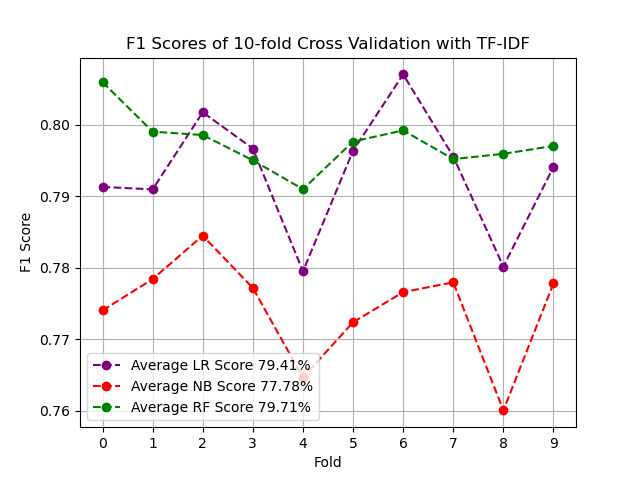
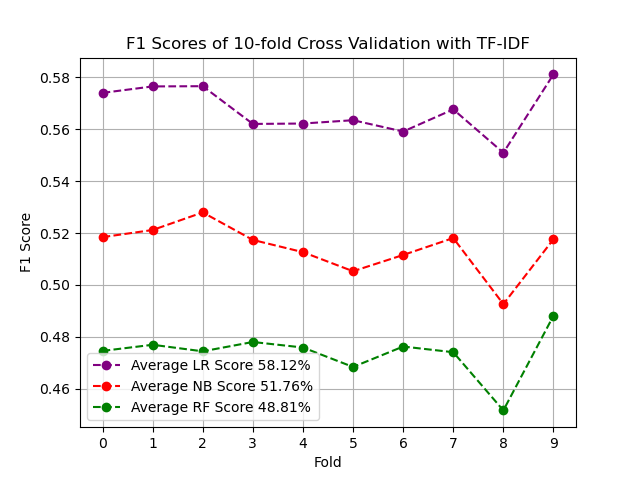
att

diff --git a/funcs.py b/funcs.py
@@ -11,10 +11,14 @@ from sklearn.linear_model import LogisticRegression
 from sklearn.naive_bayes import MultinomialNB
 from sklearn.ensemble import RandomForestClassifier
 from rake_nltk import Rake
+from PIL import Image
+import numpy as np
+
 # import RAKE
 from sklearn.feature_extraction.text import CountVectorizer
 from nltk.sentiment.vader import SentimentIntensityAnalyzer
 # nltk.download('vader_lexicon')
+# from wordcloud import WordCloud, STOPWORDS
 
 
 import matplotlib.pyplot as plt
@@ -46,8 +50,10 @@ def clean_text(text):
 
 def load_data():
     
+    train_data = ''
     data = pd.read_csv('train.csv')
-    train_data = data['selected_text'].apply(lambda x: clean_text(x))
+    print(data.head(10))
+    # train_data = data['selected_text'].apply(lambda x: clean_text(x))
     test_data = data['text'].apply(lambda x: clean_text(x))
     target = data['sentiment']
     return train_data, test_data, target
@@ -55,12 +61,7 @@ def load_data():
 ######################################################################################################
 
 def run_tfidf(train_data, test_data, Y):
-
-    kfolds = 10
-    f1scores_clr = []
-    f1scores_cmnb = []
-    f1scores_crf = []
-
+    
     """
     O primeiro passo é dividir o conjunto de dados em conjuntos de treinamento e teste, usando a função "train_test_split" da biblioteca "sklearn". 
     O parâmetro "test_size" define a proporção do conjunto de teste em relação ao conjunto de dados total e "random_state" é usado para controlar a 
@@ -84,11 +85,15 @@ def run_tfidf(train_data, test_data, Y):
     qualidade das previsões usando a métrica F1-score.
     """
 
+    kfolds = 10
+    f1scores_clr = []
+    f1scores_cmnb = []
+    f1scores_crf = []
 
     # Usando TF-IDF
     for i in range(kfolds):
+        X_train, X_test, y_train, y_test = train_test_split(test_data, Y, test_size=0.2, random_state=i)
         # X_train, _, y_train, _ = train_test_split(train_data, Y, test_size=0.2, random_state=i)
-        X_train, X_test, y_train, y_test = train_test_split(train_data, Y, test_size=0.2, random_state=i)
         # _, X_test, _, y_test = train_test_split(test_data, Y, test_size=0.2, random_state=i)
         tfidf_vectorizer = TfidfVectorizer()
         X_train_tfidf = tfidf_vectorizer.fit_transform(X_train)
@@ -133,7 +138,7 @@ def run_tfidf(train_data, test_data, Y):
     # for i, j in zip(range(kfolds), f1scores_clr):
     #     plt.annotate(f'{j * 100:.2f}%', xy=(i,j), xytext =(0.1 * offset, -offset * 0.5),  
     #         textcoords ='offset points',ha='center', va='bottom')
-    plt.savefig('tf-idf.png')
+    plt.savefig('tf-idf_3.png')
 
     plt.show()
 
@@ -149,11 +154,7 @@ def rake_tokenizer(text):
 
 def run_rake(train_data, test_data, Y):
 
-    kfolds = 10
-
-    f1scores_clr = []
-    f1scores_cmnb = []
-    f1scores_crf = []
+  
     """
     A função "rake_tokenizer" utiliza a biblioteca RAKE para extrair as frases-chave de um texto. 
     RAKE é uma técnica de extração de palavras-chave que considera a frequência das palavras e a coocorrência entre elas para identificar as frases mais importantes de um texto. 
@@ -174,8 +175,16 @@ def run_rake(train_data, test_data, Y):
      É importante notar que esse código é apenas um exemplo e que outras técnicas de vetorização e modelos de classificação podem ser utilizados dependendo do problema em questão.
     """
 
+    kfolds = 10
+    f1scores_clr = []
+    f1scores_cmnb = []
+    f1scores_crf = []
+
     for i in range(kfolds):
-        X_train, X_test, y_train, y_test = train_test_split(train_data, Y, test_size=0.2, random_state=i)
+        # X_train, _, y_train, _ = train_test_split(train_data, Y, test_size=0.2, random_state=i)
+        # _, X_test, _, y_test = train_test_split(test_data, Y, test_size=0.2, random_state=i)
+        X_train, X_test, y_train, y_test = train_test_split(test_data, Y, test_size=0.2, random_state=i)
+
 
         # Vectorize the text data using RAKE
         # rake = Rake()
@@ -226,7 +235,7 @@ def run_rake(train_data, test_data, Y):
     plt.xticks(range(kfolds))
     # plt.axhline(y=mean_f1score, color='r', linestyle='-', label=f'Average F1 Score {mean_f1score* 100:.2f} %')
     plt.legend()
-    plt.savefig('rake.png')
+    plt.savefig('rake_2.png')
 
     plt.show()
 
@@ -237,7 +246,8 @@ def sentiment_score():
     sentiments = SentimentIntensityAnalyzer()
 
     data = pd.read_csv('train.csv')
-    data['text'] = data['selected_text'].apply(lambda x: clean_text(x))
+    data['text'] = data['text'].apply(lambda x: clean_text(x))
+    # data['selected_text'] = data['text'].apply(lambda x: clean_text(x))
 
     data["Positive"] = [sentiments.polarity_scores(i)["pos"] for i in data["text"]]
     data["Negative"] = [sentiments.polarity_scores(i)["neg"] for i in data["text"]]
@@ -247,3 +257,24 @@ def sentiment_score():
     print(data.head(30))
 
 ######################################################################################################
+
+def word_clo():
+
+    data = pd.read_csv('train.csv')
+    data['text'] = data['text'].apply(lambda x: clean_text(x))
+    data['selected_text'] = data['selected_text'].apply(lambda x: clean_text(x))
+
+    twitter_mask = np.array(Image.open("test.png"))
+
+    text = " ".join(i for i in data.text)
+
+    stopwords = set(STOPWORDS)
+
+    wordcloud = WordCloud(stopwords=stopwords, background_color="black", mask=twitter_mask, width=1600, height=800, max_words=2000, 
+                          min_font_size=1, max_font_size=200).generate(text)
+
+    plt.figure( figsize=(16,8))
+
+    plt.imshow(wordcloud, interpolation='bilinear')
+    plt.axis("off")
+    plt.show()

diff --git a/main.py b/main.py
@@ -11,14 +11,17 @@
 # from sklearn.model_selection import train_test_split
 # import matplotlib.pyplot as plt
 
-from funcs import  load_data, run_tfidf, run_rake, sentiment_score
-
+from funcs import  load_data, run_tfidf, run_rake, sentiment_score, word_clo
+import sys
 
 if __name__ == '__main__':
     
     train_data, test_data, target = load_data()
 
-    sentiment_score()
+    # sentiment_score()
+    # word_clo()
+    # print(sys.executable)
+
     
     # run_tfidf(train_data,test_data,target)
     # run_rake(train_data,test_data,target)
